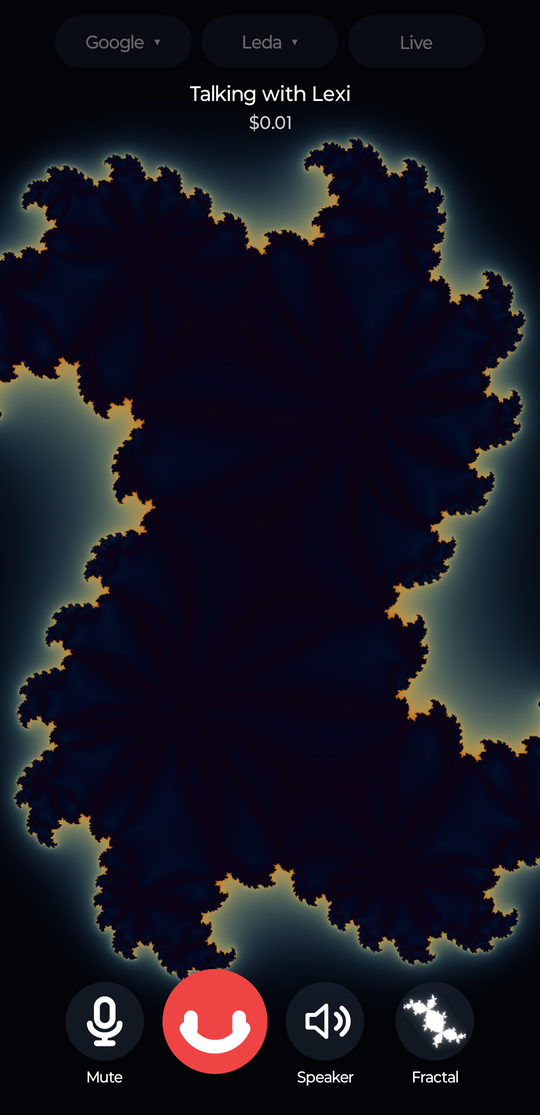
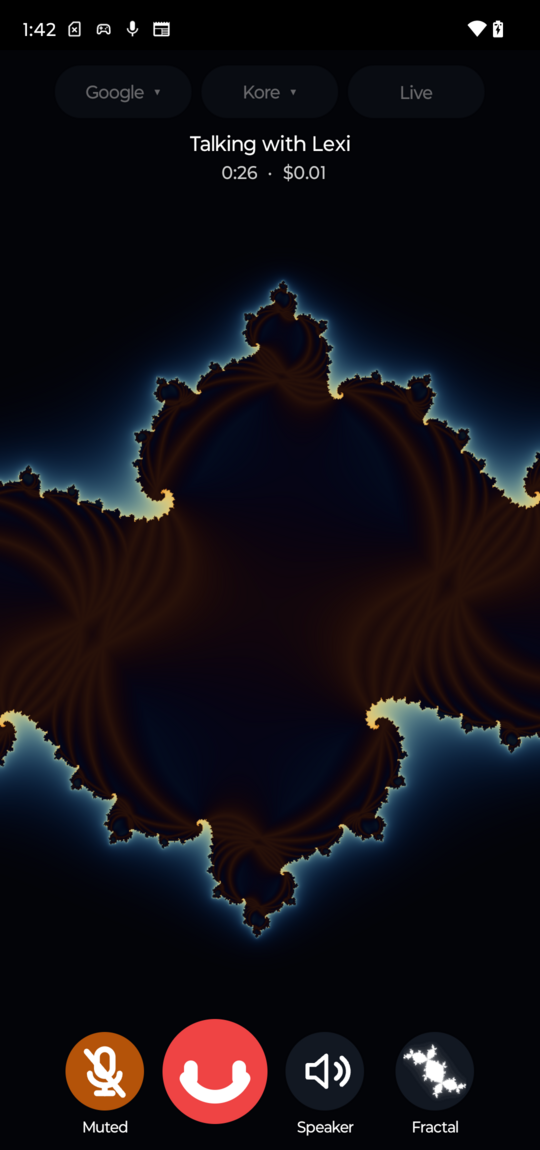
App: call duration to the left of the call cost; new screenshots

diff --git a/android/app/src/main/java/app/lexi/MainActivity.kt b/android/app/src/main/java/app/lexi/MainActivity.kt
@@ -42,6 +42,9 @@ class MainActivity : Activity(), SurfaceHolder.Callback {
     private lateinit var providerPill: TextView
     private lateinit var voicePill: TextView
     private lateinit var modelPill: TextView
+    private lateinit var costRow: LinearLayout
+    private lateinit var durView: TextView
+    private lateinit var dotView: TextView
     private lateinit var costView: TextView
     private lateinit var controls: LinearLayout
     private lateinit var callBtn: IconButton
@@ -56,6 +59,7 @@ class MainActivity : Activity(), SurfaceHolder.Callback {
     private var notice: Int? = null // transient status line message (resource id)
     private var micBlocked = false // permission permanently denied -> send the user to Settings
     private val refresh = Runnable { render() }
+    private val tick = android.os.Handler(android.os.Looper.getMainLooper())
 
     private fun dp(v: Int) = (v * resources.displayMetrics.density).toInt()
 
@@ -96,16 +100,27 @@ class MainActivity : Activity(), SurfaceHolder.Callback {
             setShadowLayer(6f, 0f, 0f, 0xFF000000.toInt())
             accessibilityLiveRegion = View.ACCESSIBILITY_LIVE_REGION_POLITE
         }
-        costView = TextView(this).apply {
-            setTextColor(0xCCFFFFFF.toInt()); textSize = 14f; gravity = Gravity.CENTER
+        // Duration | dot | cost: the two texts have equal weight on either side of a fixed dot, so the dot stays on the
+        // centre line and nothing shifts when the digits change width.
+        fun costText(g: Int) = TextView(this).apply {
+            setTextColor(0xCCFFFFFF.toInt()); textSize = 14f; gravity = g
             setShadowLayer(6f, 0f, 0f, 0xFF000000.toInt())
-            visibility = View.INVISIBLE // keeps the layout still before the first response
+        }
+        durView = costText(Gravity.END)
+        dotView = costText(Gravity.CENTER).apply { text = "·"; setPadding(dp(8), 0, dp(8), 0) }
+        costView = costText(Gravity.START)
+        costRow = LinearLayout(this).apply {
+            orientation = LinearLayout.HORIZONTAL
+            visibility = View.INVISIBLE // keeps the layout still before the call
+            addView(durView, LinearLayout.LayoutParams(0, ViewGroup.LayoutParams.WRAP_CONTENT, 1f))
+            addView(dotView, LinearLayout.LayoutParams(ViewGroup.LayoutParams.WRAP_CONTENT, ViewGroup.LayoutParams.WRAP_CONTENT))
+            addView(costView, LinearLayout.LayoutParams(0, ViewGroup.LayoutParams.WRAP_CONTENT, 1f))
         }
         // Top bar: the voice and model selectors, with the status line and the call cost under it (the bottom is busy).
         topBar = LinearLayout(this).apply { orientation = LinearLayout.VERTICAL; gravity = Gravity.CENTER_HORIZONTAL }
         topBar.addView(pills, LinearLayout.LayoutParams(ViewGroup.LayoutParams.WRAP_CONTENT, ViewGroup.LayoutParams.WRAP_CONTENT))
         topBar.addView(status, LinearLayout.LayoutParams(ViewGroup.LayoutParams.MATCH_PARENT, ViewGroup.LayoutParams.WRAP_CONTENT).apply { topMargin = dp(8) })
-        topBar.addView(costView, LinearLayout.LayoutParams(ViewGroup.LayoutParams.MATCH_PARENT, ViewGroup.LayoutParams.WRAP_CONTENT).apply { topMargin = dp(2) })
+        topBar.addView(costRow, LinearLayout.LayoutParams(ViewGroup.LayoutParams.MATCH_PARENT, ViewGroup.LayoutParams.WRAP_CONTENT).apply { topMargin = dp(2) })
         root.addView(topBar, FrameLayout.LayoutParams(
             ViewGroup.LayoutParams.MATCH_PARENT, ViewGroup.LayoutParams.WRAP_CONTENT, Gravity.TOP
         ))
@@ -189,6 +204,7 @@ class MainActivity : Activity(), SurfaceHolder.Callback {
 
     override fun onStop() {
         CallModel.removeListener(refresh)
+        tick.removeCallbacks(refresh)
         super.onStop()
     }
 
@@ -233,6 +249,10 @@ class MainActivity : Activity(), SurfaceHolder.Callback {
     /** US dollars rounded UP to the cent ($0.0011 shows as $0.01). An estimate priced from OpenAI's usage reports. */
     private fun formatCost(micro: Long): String =
         String.format(java.util.Locale.US, "$%.2f", (micro + 9_999) / 10_000 / 100.0)
+
+    private fun formatDuration(sec: Long): String =
+        if (sec >= 3600) String.format(java.util.Locale.US, "%d:%02d:%02d", sec / 3600, sec / 60 % 60, sec % 60)
+        else String.format(java.util.Locale.US, "%d:%02d", sec / 60, sec % 60)
 
     private fun toggleMode() {
         visualMode = if (visualMode == NativeBridge.MODE_FLUID) NativeBridge.MODE_FRACTAL else NativeBridge.MODE_FLUID
@@ -326,9 +346,16 @@ class MainActivity : Activity(), SurfaceHolder.Callback {
         if (google && !active) { modelPill.isEnabled = false; modelPill.alpha = 0.4f }
 
         val cost = CallModel.costMicro
-        costView.visibility = if (cost == null) View.INVISIBLE else View.VISIBLE
-        if (cost != null) costView.text = formatCost(cost)
+        val secs = CallModel.durationSec
+        costRow.visibility = if (cost == null && secs == null) View.INVISIBLE else View.VISIBLE
+        durView.text = secs?.let { formatDuration(it) } ?: ""
+        costView.text = cost?.let { formatCost(it) } ?: ""
+        dotView.visibility = if (cost != null && secs != null) View.VISIBLE else View.INVISIBLE
+        durView.contentDescription = secs?.let { getString(R.string.cd_duration, formatDuration(it)) }
         costView.contentDescription = cost?.let { getString(R.string.cd_cost, formatCost(it)) }
+        // Tick once a second while a call runs and the screen is on.
+        tick.removeCallbacks(refresh)
+        if (CallModel.active && secs != null) tick.postDelayed(refresh, 1000)
 
         status.text = notice?.let { getString(it) } ?: when (CallModel.state) {
             CallModel.CONNECTING -> getString(R.string.st_connecting)

diff --git a/android/app/src/main/java/app/lexi/CallModel.kt b/android/app/src/main/java/app/lexi/CallModel.kt
@@ -2,6 +2,7 @@ package app.lexi
 
 import android.os.Handler
 import android.os.Looper
+import android.os.SystemClock
 
 /** Single source of UI truth for the call. Mutated and observed on the main thread only. */
 object CallModel : NativeCallback {
@@ -26,6 +27,17 @@ object CallModel : NativeCallback {
     var costMicro: Long? = null
         private set
 
+    private var liveSinceMs = 0L
+    private var endedAtMs = 0L
+
+    /** Seconds the call has been live (connected at least once); frozen when it ends; null before it connects. */
+    val durationSec: Long?
+        get() {
+            if (liveSinceMs == 0L) return null
+            val end = if (active) SystemClock.elapsedRealtime() else endedAtMs
+            return ((end - liveSinceMs) / 1000).coerceAtLeast(0)
+        }
+
     /** Why the call ended when it was our decision rather than the user's (e.g. "interrupted"). */
     var endReason: String? = null
 
@@ -34,8 +46,9 @@ object CallModel : NativeCallback {
     /** How long the call's cost stays on screen after the call ends. */
     private const val COST_LINGER_MS = 10_000L
     private val hideCost = Runnable {
-        if (!active && costMicro != null) {
+        if (!active && (costMicro != null || liveSinceMs != 0L)) {
             costMicro = null
+            liveSinceMs = 0L
             notifyChanged()
         }
     }
@@ -54,6 +67,7 @@ object CallModel : NativeCallback {
     fun begin() {
         main.removeCallbacks(hideCost)
         costMicro = null
+        liveSinceMs = 0L
         // `muted` is deliberately kept: muting before the call starts must hold from the first frame.
         endReason = null
         set(CONNECTING, null)
@@ -76,10 +90,12 @@ object CallModel : NativeCallback {
 
     private fun set(state: Int, detail: String?) {
         val wasActive = active
+        if (state == LIVE && liveSinceMs == 0L) liveSinceMs = SystemClock.elapsedRealtime()
         this.state = state
         this.detail = detail
-        // The call just ended: keep its cost visible for a moment, then let it go.
-        if (wasActive && !active && costMicro != null) main.postDelayed(hideCost, COST_LINGER_MS)
+        // The call just ended: keep its duration and cost visible for a moment, then let them go.
+        if (wasActive && !active) endedAtMs = SystemClock.elapsedRealtime()
+        if (wasActive && !active && (costMicro != null || liveSinceMs != 0L)) main.postDelayed(hideCost, COST_LINGER_MS)
         notifyChanged()
     }
 

diff --git a/docs/SPEC.md b/docs/SPEC.md
@@ -182,7 +182,8 @@ the current official docs before implementing them.
 ### 2.6 Running call cost
 The app shows what the current call has cost so far. The server reports exactly what it bills in the `usage` of each
 `response.done` event ("Usage statistics for the Response, this will correspond to billing"), so the figure is the sum
-of those usages priced with a **price table built into the app**.
+of those usages priced with a **price table built into the app**. The call duration (m:ss, or h:mm:ss) is shown to the left of
+the cost, counted from the first moment the call is live (reconnects keep counting); both stay on screen for 10 s after the call ends.
 
 - **Prices** (USD per 1M tokens, `gpt-realtime-2.1-mini`, Realtime API, standard tier; verified 2026-11-21 on
   <https://developers.openai.com/api/docs/pricing>, "Realtime & Audio"):

diff --git a/README.md b/README.md
@@ -10,7 +10,7 @@
 Lexi is a voice chat bot for Android: tap call, talk, and it talks back in the language you speak, and it can search
 the web when you ask about current events. The whole screen is a GPU visual (a Navier–Stokes fluid or a Julia fractal)
 that reacts to the conversation. You pick the provider (**OpenAI Realtime** over WebRTC or **Google Gemini Live** over a
-WebSocket), the voice and the model with the pills at the top; the call keeps running with the screen off, shows what it
+WebSocket), the voice and the model with the pills at the top; the call keeps running with the screen off, shows how long it has lasted and what it
 costs so far, and survives network changes.
 
 It is a hobby project that is sideloaded, not on a store, and built to be small: **the whole signed APK is about 5 MB**
